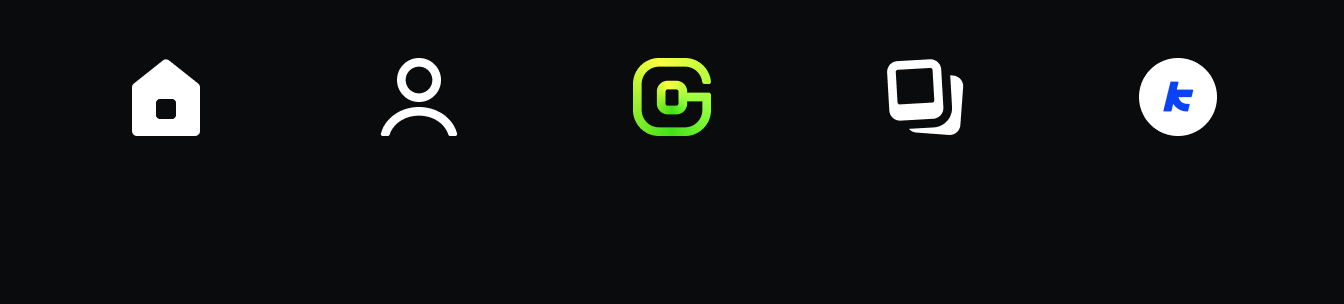
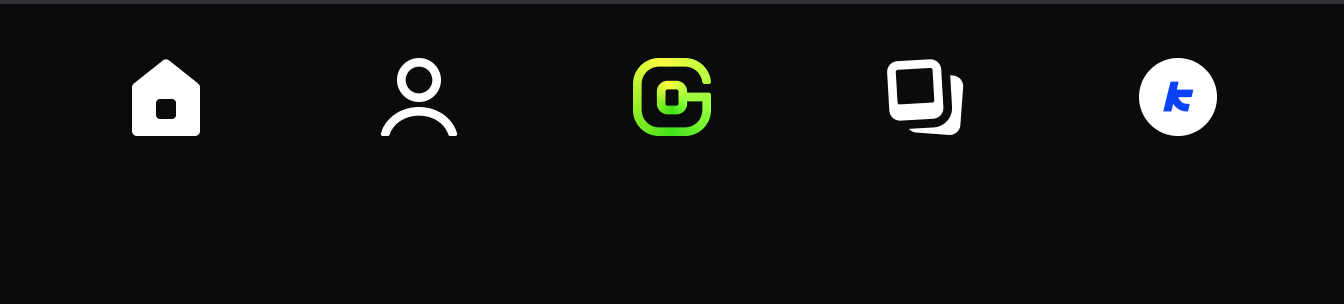
all the latest changes

Changed region(s): [[0.0, 0.0, 1.0, 0.0296]]

diff --git a/backend/Controllers/getting-images.js b/backend/Controllers/getting-images.js
@@ -20,16 +20,32 @@ async function getAllImageUrls(){
 
         for (const itemRef of res.items) {
             const url = await getDownloadURL(itemRef);
-            imageUrls.push(url);
             
+            let path = itemRef._location.path_;
+            
+            path = path.split(" ");
+            const date = path[9];
+            const time = path[10];
+            imageUrls.push({
+                time: `${date} ${time}`,
+                url: url
+            });      
         }
+        
+        // Sort the Image urls based on time.
+        imageUrls.sort((a, b) => {
+            const dateA = new Date(a.time);
+            const dateB = new Date(b.time);
+
+            return dateA - dateB;
+        });
+
+        return imageUrls;
 
         
     }  catch (error) {
         console.log(error);
     }
-
-    return imageUrls;
 
 }
 

diff --git a/frontend/components/Wrapper.tsx b/frontend/components/Wrapper.tsx
@@ -1,0 +1,30 @@
+import React from 'react';
+import { View, Dimensions, Image, StyleSheet, TouchableOpacity, Text } from 'react-native';
+
+const { width } = Dimensions.get('window');
+
+const TopFooter = () => {
+  return (
+    <View style={{
+      position: 'absolute',
+      bottom: -190,
+      width: width,
+      justifyContent: 'flex-end', // Align content at the bottom
+      alignItems: 'center',
+      pointerEvents: 'none', // Make the footer not intercept touch events
+    }}
+    pointerEvents='none'>
+
+      <Image
+        source={require('../assets/Navbar.png')}
+        style={{
+          width: '100%',
+          resizeMode: 'contain',
+          
+        }}
+      />
+    </View>
+  );
+};
+
+export default TopFooter;

diff --git a/frontend/App.tsx b/frontend/App.tsx
@@ -27,6 +27,7 @@ import Groups from './screens/Groups.tsx';
 import Profile from './screens/Profile.tsx';
 import Home from './screens/Home.tsx';
 import Prompts from './components/prompts.tsx';
+import TopFooter from './components/Wrapper.tsx'
 
 import {
   Colors,
@@ -111,6 +112,7 @@ function App(): React.JSX.Element {
             component={Profile}
         />
     </Tab.Navigator>
+
 </NavigationContainer>
 
   );

diff --git a/frontend/screens/Album.tsx b/frontend/screens/Album.tsx
@@ -48,7 +48,7 @@ function Album(): React.JSX.Element {
             style = {
               styles.image
             }
-            source={{uri: `${pictures[i]}`}}
+            source={{uri: `${pictures[i]['url']}`}}
           />
         </View>
       );

diff --git a/frontend/screens/Home.tsx b/frontend/screens/Home.tsx
@@ -1,5 +1,6 @@
 import React from 'react';
 import { StyleSheet, SafeAreaView, ImageBackground, Dimensions, StatusBar } from 'react-native';
+import Prompts from '../components/prompts';
 
 const { width, height } = Dimensions.get('window');
 
